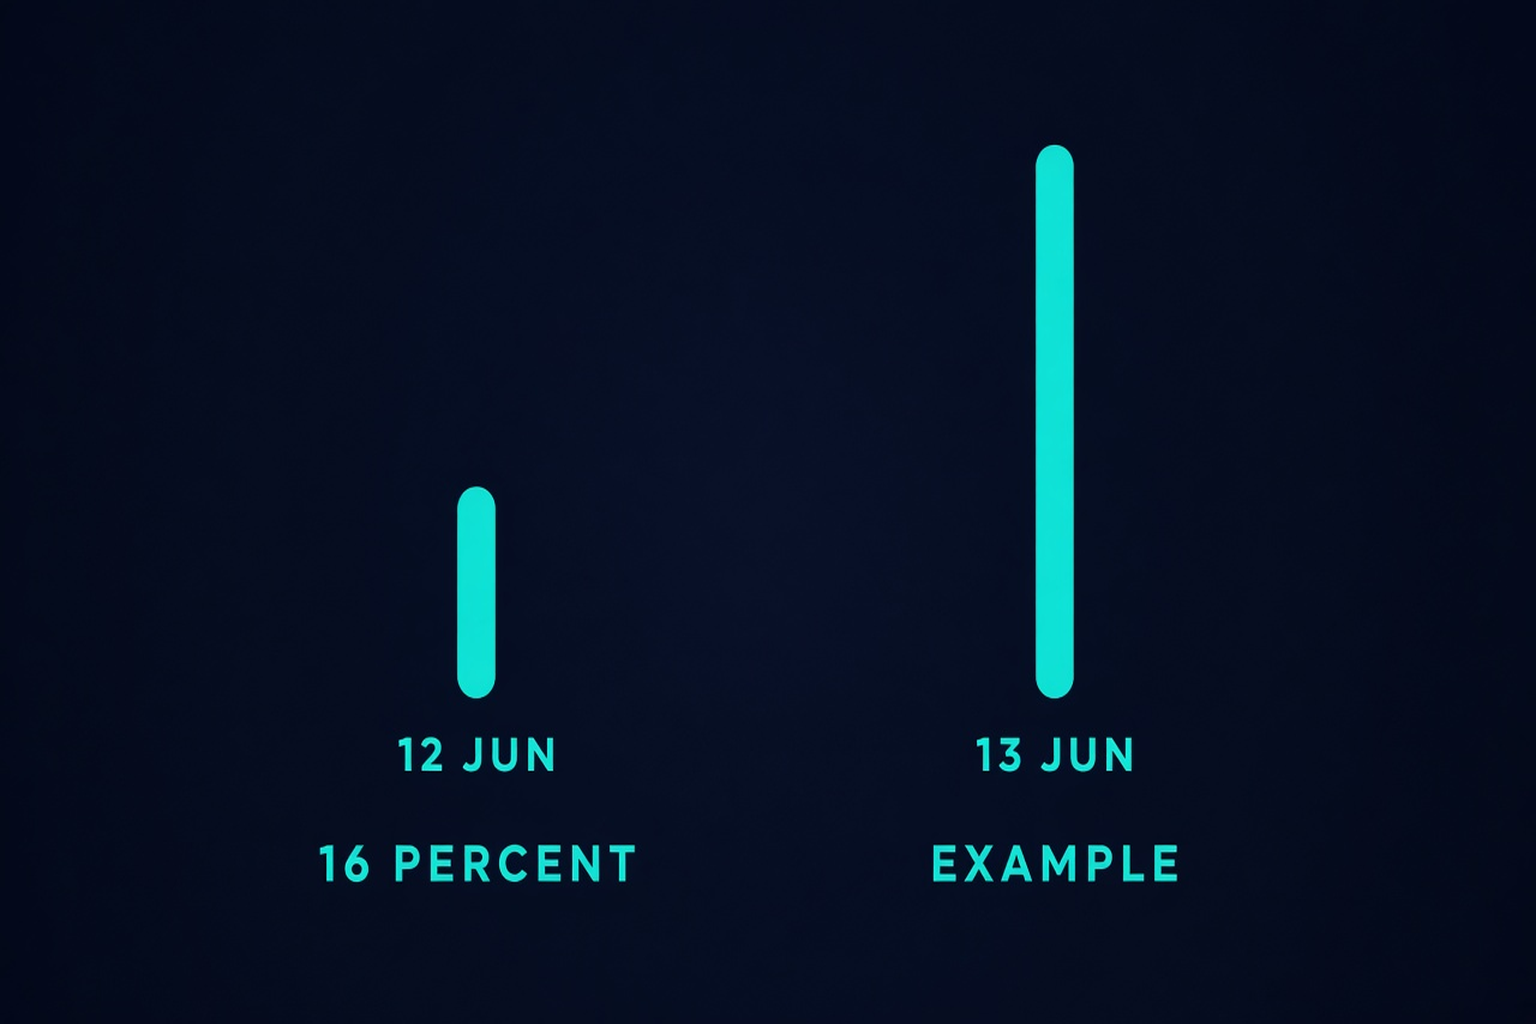
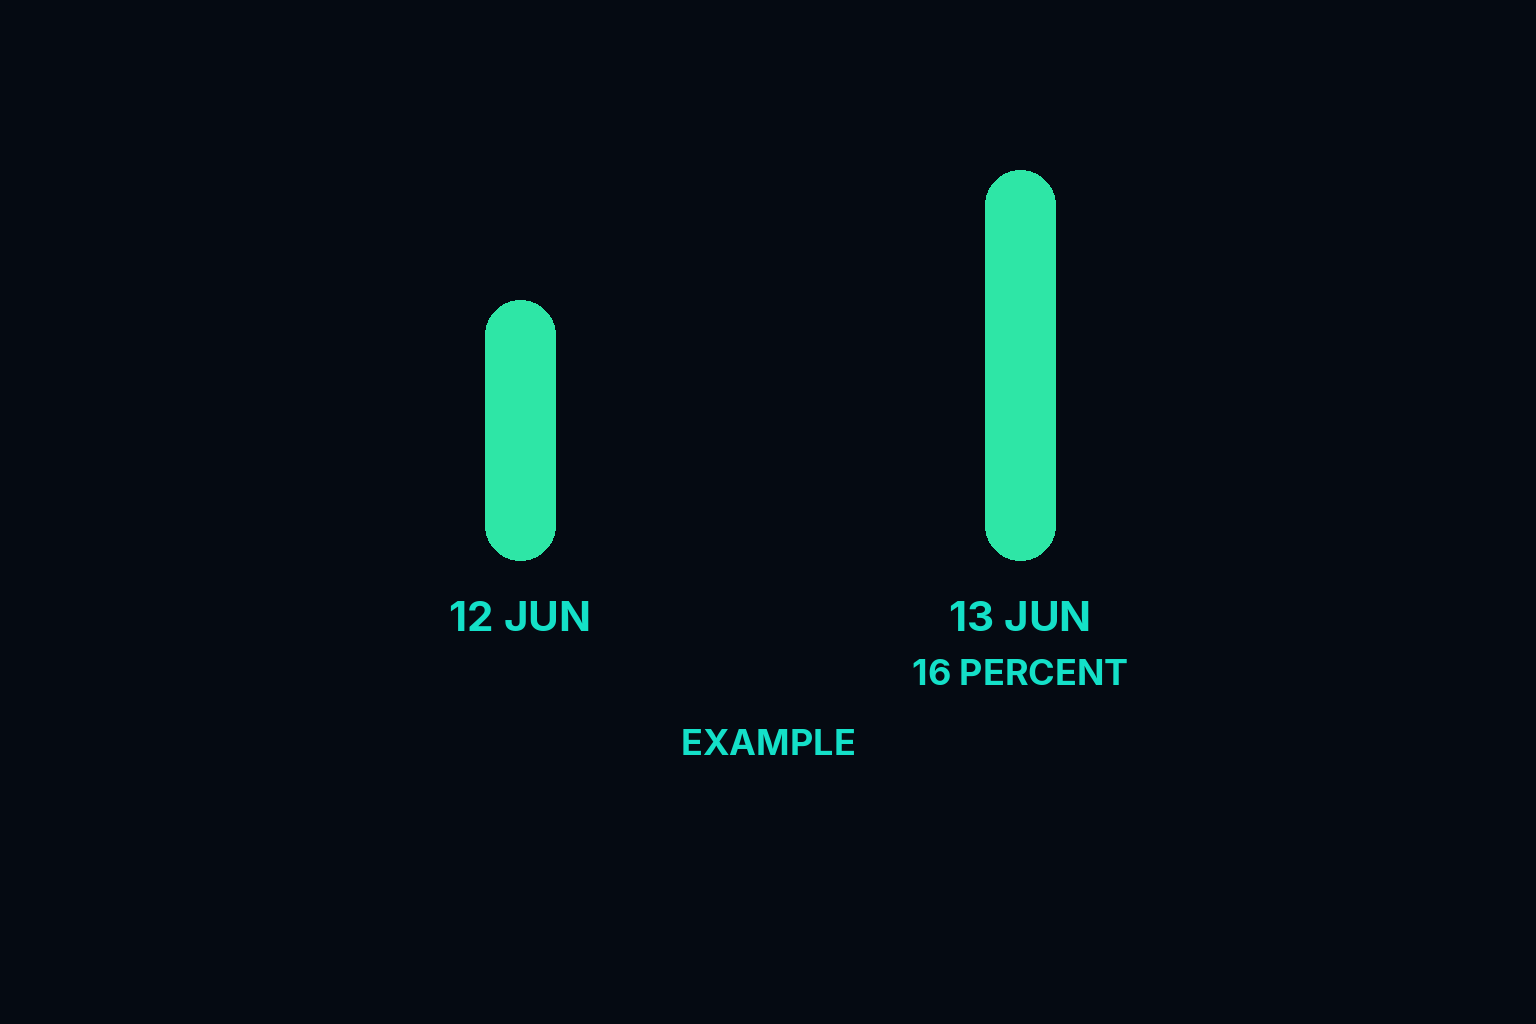
Wrap Elite captions and put the 16 percent figure under 13 June.
Captions stay on two lines inside a 64px margin. The crop no longer slides into empty navy, so the 3.17 second still stretch in el-02 is gone. el-03 and el-09 stay as Creative Studio passed them.

diff --git a/course/render/render_tutorial.py b/course/render/render_tutorial.py
@@ -43,6 +43,14 @@ X264 = [
     "-c:v", "libx264", "-preset", "slow", "-crf", "16", "-pix_fmt", "yuv420p",
     "-colorspace", "bt709", "-color_primaries", "bt709", "-color_trc", "bt709",
 ]
+# Caption box stays 64px inside the frame and 16px above the footer at y=h-48.
+CAPTION_SIZE = 36
+CAPTION_BORDER = 16
+CAPTION_MARGIN = 64
+CAPTION_MAX_W = 1920 - 2 * CAPTION_MARGIN - 2 * CAPTION_BORDER
+CAPTION_LINE = 8
+FRAME_H = 1080
+FOOTER_Y = 48
 
 
 def scripts() -> list[Path]:
@@ -143,6 +151,46 @@ def run(cmd: list[str]) -> None:
     subprocess.check_call(cmd)
 
 
+def _caption_font():
+    from PIL import ImageFont
+    return ImageFont.truetype(FONT, CAPTION_SIZE)
+
+
+def caption_px(text: str) -> int:
+    box = _caption_font().getbbox(text)
+    return box[2] - box[0]
+
+
+def wrap_caption(text: str, max_width: int = CAPTION_MAX_W) -> list[str]:
+    """Break a caption into lines that fit the safe width, including the box border."""
+    words = (text or "").split()
+    if not words:
+        return [""]
+    lines: list[str] = []
+    current = words[0]
+    for word in words[1:]:
+        trial = f"{current} {word}"
+        if caption_px(trial) <= max_width:
+            current = trial
+        else:
+            lines.append(current)
+            current = word
+    lines.append(current)
+    return lines
+
+
+def caption_y_offset(line_count: int) -> int:
+    """Distance from the bottom of the frame to the top of the caption glyphs.
+
+    One and two lines stay at the existing 160px. More lines move up so the
+    box clears the footer and stays inside the frame.
+    """
+    text_h = line_count * CAPTION_SIZE + max(0, line_count - 1) * CAPTION_LINE
+    # box bottom = glyph top + text_h + border, and must sit 16px above the footer
+    limit = FOOTER_Y + 16 + text_h + CAPTION_BORDER
+    return max(160, limit)
+
+
 def beat_seconds(beat: dict) -> float:
     words = len((beat.get("vo") or "").split())
     floor = {"intro": 5.5, "outro": 8.0, "legal": 12.0}.get(beat["role"], 6.0)
@@ -187,14 +235,16 @@ def render_script(script: dict) -> Path:
         secs = beat_seconds(beat)
         frames = int(round(secs * 30))
         clip = work / f"{beat['n']:03d}.mp4"
+        lines = wrap_caption(beat["cap"])
         cap = work / f"{beat['n']:03d}.txt"
-        cap.write_text(beat["cap"])
+        cap.write_text("\n".join(lines))
         chapter = work / f"{beat['n']:03d}-ch.txt"
         chapter.write_text(f"{beat['chapter']}")
         foot = work / f"{beat['n']:03d}-foot.txt"
         foot.write_text(DISCLAIMER)
+        cap_y = caption_y_offset(len(lines))
         overlays = ",".join([
-            f"drawtext=fontfile={FONT}:textfile={cap}:fontsize=36:fontcolor=white:box=1:boxcolor=0x050A12CC:boxborderw=16:x=(w-text_w)/2:y=h-160:line_spacing=8",
+            f"drawtext=fontfile={FONT}:textfile={cap}:fontsize={CAPTION_SIZE}:fontcolor=white:box=1:boxcolor=0x050A12CC:boxborderw={CAPTION_BORDER}:text_align=center:x=(w-text_w)/2:y=h-{cap_y}:line_spacing={CAPTION_LINE}",
             f"drawtext=fontfile={FONT}:textfile={chapter}:fontsize=28:fontcolor={accent}:x=80:y=64",
             f"drawtext=fontfile={FONT_REG}:textfile={foot}:fontsize=22:fontcolor=0xD0D7E2:x=w-text_w-48:y=h-48",
         ])

diff --git a/course/render/test_caption_wrap.py b/course/render/test_caption_wrap.py
@@ -1,0 +1,61 @@
+"""Captions wrap inside a 64px margin and stay above the footer."""
+
+import json
+import sys
+from pathlib import Path
+
+sys.path.insert(0, str(Path(__file__).resolve().parent))
+import render_tutorial as rt
+
+
+def test_long_line_wraps_inside_the_safe_width():
+    text = (
+        "Elite is the paper map you finish before a trip, after Blueprint "
+        "already named the range, the spacing, and the stop."
+    )
+    lines = rt.wrap_caption(text)
+    assert len(lines) >= 2
+    for line in lines:
+        assert rt.caption_px(line) <= rt.CAPTION_MAX_W
+        assert rt.caption_px(line) + 2 * rt.CAPTION_BORDER <= 1920 - 2 * rt.CAPTION_MARGIN
+
+
+def test_short_line_stays_one_line_at_the_old_position():
+    lines = rt.wrap_caption("Hook.")
+    assert lines == ["Hook."]
+    assert rt.caption_y_offset(1) == 160
+    assert rt.caption_y_offset(2) == 160
+
+
+def test_three_lines_clear_the_footer_and_the_frame():
+    offset = rt.caption_y_offset(3)
+    text_h = 3 * rt.CAPTION_SIZE + 2 * rt.CAPTION_LINE
+    box_bottom_from_top = (rt.FRAME_H - offset) + text_h + rt.CAPTION_BORDER
+    assert box_bottom_from_top <= rt.FRAME_H - rt.FOOTER_Y - 16
+    assert rt.FRAME_H - offset - rt.CAPTION_BORDER >= 0
+
+
+def test_every_elite_caption_fits():
+    root = Path(__file__).resolve().parents[1] / "scripts"
+    for path in sorted(root.glob("el-*.json")):
+        data = json.loads(path.read_text())
+        for beat in data["beats"]:
+            lines = rt.wrap_caption(beat["cap"])
+            assert 1 <= len(lines) <= 4, (path.name, beat["n"], lines)
+            for line in lines:
+                width = rt.caption_px(line) + 2 * rt.CAPTION_BORDER
+                assert width <= 1920 - 2 * rt.CAPTION_MARGIN, (path.name, beat["n"], line)
+            offset = rt.caption_y_offset(len(lines))
+            text_h = len(lines) * rt.CAPTION_SIZE + max(0, len(lines) - 1) * rt.CAPTION_LINE
+            box_top = rt.FRAME_H - offset - rt.CAPTION_BORDER
+            box_bottom = box_top + text_h + 2 * rt.CAPTION_BORDER
+            assert box_top >= 120, (path.name, beat["n"], box_top)
+            assert box_bottom <= rt.FRAME_H - rt.FOOTER_Y - 16
+
+
+if __name__ == "__main__":
+    test_long_line_wraps_inside_the_safe_width()
+    test_short_line_stays_one_line_at_the_old_position()
+    test_three_lines_clear_the_footer_and_the_frame()
+    test_every_elite_caption_fits()
+    print("ok")

diff --git a/course/skills/elite_motion.py b/course/skills/elite_motion.py
@@ -172,7 +172,8 @@ def write_frames(kind: str, dest: Path, frames: int = 24) -> tuple[int, int]:
     return 12, frames
 
 
-MAX_HOLD = 7.5
+# 2.5s is under the 3.17s identical run Creative Studio flagged in el-02.
+MAX_HOLD = 2.5
 
 
 def segment_lengths(seconds: float, max_hold: float = MAX_HOLD) -> list[float]:
@@ -191,30 +192,26 @@ def segment_lengths(seconds: float, max_hold: float = MAX_HOLD) -> list[float]:
     return parts
 
 
-def picture_filter(index: int, seconds: float = 7.5) -> str:
-    """One Lanczos scale, then a crop that travels across the plate for this piece.
+def picture_filter(index: int, seconds: float = 2.5) -> str:
+    """One Lanczos scale, then a horizontal crop that stays on the artwork.
 
-    The next piece starts from the opposite side, so the move resets before 7.5
-    seconds. Pixels are not scaled again while the crop moves.
+    A vertical pan slid off the diagram into empty navy and sat there. The crop
+    stays at the vertical centre. A teal tick crosses the frame during the piece
+    so the picture is still moving when the plate itself is a flat field.
     """
     dur = max(float(seconds), 0.1)
-    width = 2800 if index % 2 else 2560
-    slot = index % 4
-    if slot == 0:
-        x_expr = f"24+(in_w-1920-48)*t/{dur:.3f}"
-        y_expr = "(in_h-1080)/2"
-    elif slot == 1:
-        x_expr = f"in_w-1920-24-(in_w-1920-48)*t/{dur:.3f}"
-        y_expr = "(in_h-1080)/2"
-    elif slot == 2:
-        x_expr = "(in_w-1920)/2"
-        y_expr = f"16+(in_h-1080-32)*t/{dur:.3f}"
+    width = 2300 if index % 2 else 2100
+    span = "(in_w-1920-80)"
+    if index % 2 == 0:
+        x_expr = f"40+{span}*t/{dur:.3f}"
     else:
-        x_expr = "(in_w-1920)/2"
-        y_expr = f"in_h-1080-16-(in_h-1080-32)*t/{dur:.3f}"
+        x_expr = f"in_w-1920-40-{span}*t/{dur:.3f}"
+    y_expr = "(in_h-1080)/2"
+    tick = f"80+(w-200)*t/{dur:.3f}"
     return ",".join([
         f"scale={width}:-2:flags=lanczos:in_color_matrix=bt709:out_color_matrix=bt709",
         f"crop=1920:1080:x='{x_expr}':y='{y_expr}'",
+        f"drawbox=x='{tick}':y=120:w=64:h=8:color=0x2EE6A6:t=fill",
         "format=yuv420p",
         "setparams=range=tv:color_primaries=bt709:color_trc=bt709:colorspace=bt709",
     ])

diff --git a/course/skills/test_segment_lengths.py b/course/skills/test_segment_lengths.py
@@ -8,15 +8,16 @@ import elite_motion
 
 
 def test_short_beat_is_one_piece():
-    assert elite_motion.segment_lengths(6.0) == [6.0]
+    assert elite_motion.segment_lengths(2.0) == [2.0]
 
 
 def test_long_beat_has_no_piece_over_the_limit():
-    for seconds in (8.1, 15, 22.5, 71.9, 120):
+    for seconds in (3.17, 8.1, 15, 22.5, 45.31, 71.9, 120):
         parts = elite_motion.segment_lengths(seconds)
         assert parts, seconds
         assert abs(sum(parts) - seconds) < 1e-6
         assert max(parts) <= elite_motion.MAX_HOLD + 1e-6
+        assert max(parts) < 3.17
 
 
 def test_min_seconds_extends_a_short_line():

diff --git a/course/ELITE_STATUS.md b/course/ELITE_STATUS.md
@@ -30,21 +30,21 @@ Wired stills are the pictures the script points at. Every wired still is in `FAL
 
 ## New masters
 
-Same picture size and codecs. The hold check samples 2 frames a second and the longest identical run in every lesson is 0.50 seconds. el-08 is 17.02 minutes, past the 16.7 minute floor, because of the spoken tail.
+Same picture size and codecs. el-03 and el-09 are the cut Creative Studio passed and were not re-encoded. The other nine were re-encoded with wrapped captions and a 2.5 second cut. A 2-frame-per-second scan found no quiet stretch of 3.17 seconds. The longest quiet stretch in those nine is 2.00 seconds. el-08 is 17.00 minutes, past the 16.7 minute floor.
 
-| Lesson | Master | Longest hold |
+| Lesson | Master | Notes |
 |---|---|---|
-| el-01 Welcome | 16.82 min | 0.50 s |
-| el-02 Prerequisites | 17.33 min | 0.50 s |
-| el-03 Multi-layer | 17.16 min | 0.50 s |
-| el-04 Dynamic spacing | 17.10 min | 0.50 s |
-| el-05 Portfolio risk | 17.08 min | 0.50 s |
-| el-06 Circuit breakers | 16.82 min | 0.50 s |
-| el-07 Liquidation | 18.05 min | 0.50 s |
-| el-08 Size on a schedule | 17.02 min | 0.50 s |
-| el-09 Multi-venue | 17.40 min | 0.50 s |
-| el-10 How to ask | 17.11 min | 0.50 s |
-| el-11 Paper plan | 16.93 min | 0.50 s |
+| el-01 Welcome | 16.81 min | captions rewrapped |
+| el-02 Prerequisites | 17.35 min | captions rewrapped, 09:31 hold removed |
+| el-03 Multi-layer | 17.16 min | passed, kept |
+| el-04 Dynamic spacing | 17.10 min | captions rewrapped, 13 June chart |
+| el-05 Portfolio risk | 17.07 min | captions rewrapped |
+| el-06 Circuit breakers | 16.85 min | captions rewrapped |
+| el-07 Liquidation | 18.04 min | captions rewrapped, 13 June chart |
+| el-08 Size on a schedule | 17.00 min | captions rewrapped |
+| el-09 Multi-venue | 17.40 min | passed, kept |
+| el-10 How to ask | 17.12 min | captions rewrapped |
+| el-11 Paper plan | 16.97 min | captions rewrapped |
 
 Music is `course/music/komiku-ambiant-truth.ogg`, ducked under the voice and loudnormed to about -16 LUFS. Voice is 24 kHz mono.
 
@@ -68,6 +68,12 @@ Exchange names were removed from every Elite script field. The spoken line is no
 Stewart's 6 November direction replaces the code-drawn plates. The key beats still teach through one real example, and the picture on those beats is now a ChatGPT still in `course/images/examples/`. The passed still stays the file the script points at, so the pass gate is unchanged. The renderer shows the example still while that line is spoken. Creative Studio has not reviewed the new stills. They are not marked pass.
 
 The crop travels across the plate for each piece of the beat, and the next piece starts from the opposite side. No piece is longer than 7.5 seconds, which keeps a hold inside the 8 second limit. One Lanczos scale, then the crop. Labels are not scaled again.
+
+Captions wrap to at most two lines. Inter Bold at 36px is measured, and each line stays inside a 64px margin once the box border is included. One and two lines keep the lower-third position. The footer stays below the box.
+
+The day chart puts 16 PERCENT under 13 June. The public index close on 13 June 2022 is 15.97 percent under the 12 June close, which the lesson says as 16 percent. The taller bar is 13 June.
+
+Pieces are at most 2.5 seconds and the crop stays at the vertical centre. That removes the empty-navy stretch Creative Studio measured as 3.17 seconds in el-02 at 09:31. el-03 and el-09 passed and are not re-encoded.
 
 The masters Creative Studio already reviewed are copied to `course/masters/baseline/` and are not deleted. el-08 adds a spoken tail after the outro so the picture runs past 16.7 minutes. The tail says November 2022 on the public path was a lower close, not a payment.
 

diff --git a/course/skills/elite-motion/SKILL.md b/course/skills/elite-motion/SKILL.md
@@ -2,7 +2,7 @@
 
 Code: `course/skills/elite_motion.py`. The renderer calls it for every Elite lesson.
 
-- Every Elite beat is cut into pieces of at most 7.5 seconds (`segment_lengths`). Inside a piece the crop travels across one Lanczos scale, and the next piece starts from the opposite side. The picture is moving while the line is spoken, and a hold cannot run past 7.5 seconds. Labels are not scaled a second time.
+- Every Elite beat is cut into pieces of at most 2.5 seconds (`segment_lengths`). The crop stays at the vertical centre and travels sideways, so it does not slide off the diagram into empty navy. A teal tick crosses the frame during the piece. The next piece starts from the opposite side. Labels are not scaled a second time.
 - Beats with `example.kind` use the ChatGPT still at `course/images/examples/<kind>.png`. Those plates are real charts or everyday analogies. The renderer does not draw them. They wait for Creative Studio and are not marked pass.
 - The previous masters stay in `course/masters/baseline/`. Do not delete them.
 

diff --git a/course/images/examples/README.md b/course/images/examples/README.md
@@ -9,7 +9,7 @@ Creative Studio has not reviewed these files. Do not mark them pass. The lesson 
 | File | What it teaches |
 |---|---|
 | chart-path.png | Public path, 8 Nov 2021 to 21 Nov 2022, a steep fall. About 76 percent lower. Example. |
-| chart-day.png | 12 and 13 June 2022. The second bar is the wide one. Close 16 percent under the day before. |
+| chart-day.png | 12 and 13 June 2022. The taller bar is 13 June. The 13 June close was 16 percent under the 12 June close, so the figure sits under 13 June. |
 | chart-two.png | Bitcoin and ether fell together. 0.89 is an example, not a rule. |
 | analogy-map.png | Paper map before a trip. |
 | analogy-list.png | Pre-flight list: range, space, stop. |
